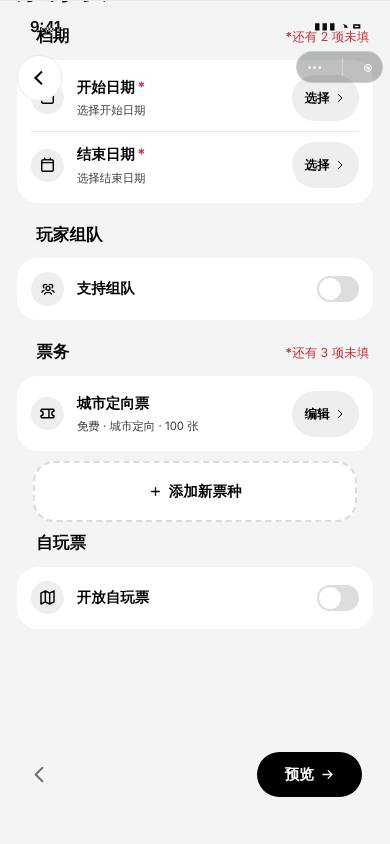
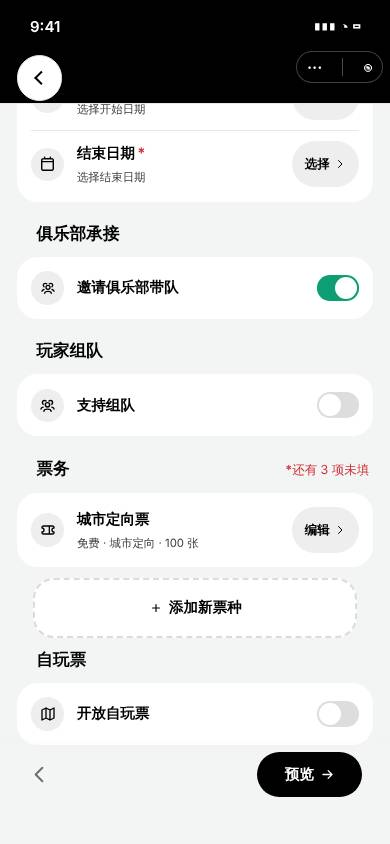
docs: l3-sell 第三轮结果与前后截图(P-33/C-14/P-34/P-38)
Claude-Session: https://claude.ai/code/session_01SUD7bQHTidZoerqLzuiJTf

diff --git a/docs/delivery/walk-fix-20261102/l3-sell/RESULT.md b/docs/delivery/walk-fix-20261102/l3-sell/RESULT.md
@@ -68,4 +68,24 @@ Master merged in with a normal merge (`26765567`); the action ledger conflict wa
 
 All screenshots are from the rig browser runtime. Not verified on a device: map picker drag and the 「请先拖动地图对准站点」 toast (rig map is a stand-in), real WeChat payment (rig seam calls the real callback), safe-area insets for P-33, icons drawn by `<icon>`.
 
+## Round 3 (2026-11-02, owner review notes; restarted after the usage limit)
+
+Nothing from the lost run had been pushed, so every item was redone from the current branch (`origin/master` already merged; `git merge origin/master` reported up to date). Shots are from the walkthrough rig (`claude/cloud-walk-20261101-rig` with the club lane's two runtime patches, `up.sh` pinned to this branch), **not a phone**. One backend (this branch) serves both bundles: "before" is the round-2 tip `702e41cd`, "after" is this branch.
+
+| ID | Status | What changed | Files | How verified |
+|---|---|---|---|---|
+| P-33 | done (fixed) | Round 2 moved the full-screen sheet below the capsule row, which exposed the root `.slopes` dark background as a black band at the top. In full-screen state the root now carries `slopes--full` and `.fabu.slopes--full { background: var(--cy-color-bg-page); }`, so the status-bar area is the page colour and content still stops below the back button. The map view keeps its dark root. | `pages/publish/fabu/index.wxml`, `.wxss` | `tests/unit/p33-editor-sheet-below-chrome.test.js` (+1, fails on old code). Shots `P-33-*`: 票务设置 scrolled 160 px; before = black band, after = page colour. |
+| C-14 | done (fixed) | New read-only `POST /api/club/name-check` (login required, writes nothing) using the same rule as creation (`ClubServiceImpl.checkNameForCreate` and `requireNameFree` share `isNameHeld`: pending or live, not deleted, trimmed; the caller's own clubs are skipped because creation replays them). The create page checks on leaving the name field (`bindblur`) and again when 下一步 is pressed on step 3; a taken name shows a red * and the reason under the field and keeps 下一步 disabled. Typing clears it; a stale answer is ignored; if the check cannot be reached the page does not block and the final check at creation (and `uk_club_holding_name`) still applies. The existing `aria-label="俱乐部名称，必填"` is unchanged. | `ApiClubController`, `IClubService`, `ClubServiceImpl`, `pages/club/create/index.js/.wxml/.wxss` | `ClubNameUniquenessTest` (+3: taken name gives the create message; pending/rejected/dissolved/own follow the create rule; check and create agree on every case), 12/12 pass. `tests/unit/c14-club-name-check-on-blur.test.js` (5, all fail on old code). Rig: `/api/club/name-check` called on blur (network log). Shots `C-14-*`: club leader 9008 types 「城瘾跑团」 (club 7001's name); fixture: 9008's `ums_member.role` set to `club` in the rig DB only, since the seed leaves both leaders as `player`. |
+| P-34 | done (two real defects fixed) | (1) Confirming the final price of a city theme did not reach the author's tickets: `confirmPrice` only checked them against the floor, so confirming ¥79 left the ¥69 ticket and players paid ¥69. The confirmed price is now written to each authored ticket whose price differs (inventory untouched; a 0-row write rolls the confirmation back). (2) After sale the page said 「合作阵容锁定后可定价」. Preview now returns `priced` (lifecycle > 2) and the page says 「终价已确认」 instead; the disabled-button reason is 「终价已确认」. The backend refusal text 「主题未在定价阶段,不能确认终价」 is unchanged (tests pin it). Price prefill and the confirm flow were otherwise correct. | `PricingServiceImpl.confirmPrice/previewTopic`, `PricingResult`, `pages/topic/pricing/index.js/.wxml` | `PricingDepositDueTest` (+3: confirmed price written to authored tickets and an already-equal one left alone; changed ticket refuses; `priced` true only past pricing), 3 fail on old code, 7/7 pass. `tests/unit/p34-pricing-prefill.test.js` (+1). HTTP in the rig (`proof/p34-confirm-price-after.txt`, `tools/p01_city_sale.py self` with `P01_CONFIRM_PRICE=79`): author's 「领队场」 ¥69 → confirm ¥79 → DB `oms_ticket.price=79.00`, inventory 20 unchanged; after sale approval the session ticket is ¥79 and preview returns `priced:true, currentPrice:79`. Shots `P-34-*` (same sold theme; the before shot also shows ¥79 because the backend is this branch, so only the note differs). |
+| P-38 | done (fixed) | The home privacy gate now also asks for home-city location: `cy-privacy-gate` takes a `location` flag (only the home page sets it); its sentence gains 「同意后将使用你的精确位置确定首页城市，不用于附近排序。」 and 「同意并继续」 reports `location:true`. The home page then records the `home_city_location` consent itself and goes straight to `wx.getLocation`, without the second 「首页城市定位」 dialog. Other pages that use the gate are unchanged (same sentence, same event payload). A previous REVOKE of location consent is still respected. When the gate is not shown (consent already given), the old single dialog still asks. **WeChat's own location permission prompt (`scope.userLocation`) is shown by WeChat and cannot be merged into ours.** | `components/cy/privacy-gate/index.js/.wxml`, `pages/index/index.js/.wxml` | `tests/unit/p38-home-city-after-privacy-gate.test.js` (+4: no dialog, consent recorded, location called; other hosts still ask; revoke respected; markup). `pr69-v3-cl24-home-privacy-gate-text.test.js` updated on purpose: it pinned the gate to one sentence, which the owner's P-38 note changes; it still requires the base sentence and allows only the location sentence, only under `location`. Shots `P-38-*` (gate), `P-38b-*` (right after 同意并继续: before = 「首页城市定位」 dialog, after = no dialog, city 上海市 from the rig's location stand-in). |
+| P-01 | not done (as instructed) | No flow change; round-2 work left in place. | | |
+
+Round 3 checks: mini-program `node --test tests/unit/*.test.js` 15599 tests, 2 failures, both in `action-ledger.test.js` pinning control totals; C-14's `bindblur` adds one event contract, so the totals were raised by one (5599 → 5600, 2725 → 2726) with a note, and that file now passes 46/46. Action ledger rebuilt after each item. `node tests/lint/ui-integrity.js`: `UI-GATE-0:PASS`, no baseline entries added (edits keep baselined line numbers). Java (`chengyinhub-admin`, `*Club*Test,*Pricing*Test,*Topic*Sale*Test,*Consent*Test`): 1419 run, 0 failures; 3 errors are `*MyBatisTest` classes that need their own MySQL, as in earlier rounds.
+
+Round 3 observations, not changed:
+- **P-34, a theme with several authored tickets at different prices:** the pricing page sets one guided price, and confirming writes it to every authored ticket. Needs owner: should a city theme with several price tiers keep its tiers at confirm? Recommended default: one confirmed price for all (current behaviour), since the page offers only one.
+- **P-34:** on a sold theme the pricing page still shows the 带队成本 inputs and the 「有人带定价需填写成团人数」 hint. That is existing behaviour, left alone because the item did not name it.
+
+Not verified on a real phone: WeChat's system location prompt after the gate, safe-area insets for P-33, and the keyboard closing when the name field loses focus.
+
 STATUS: COMPLETE
